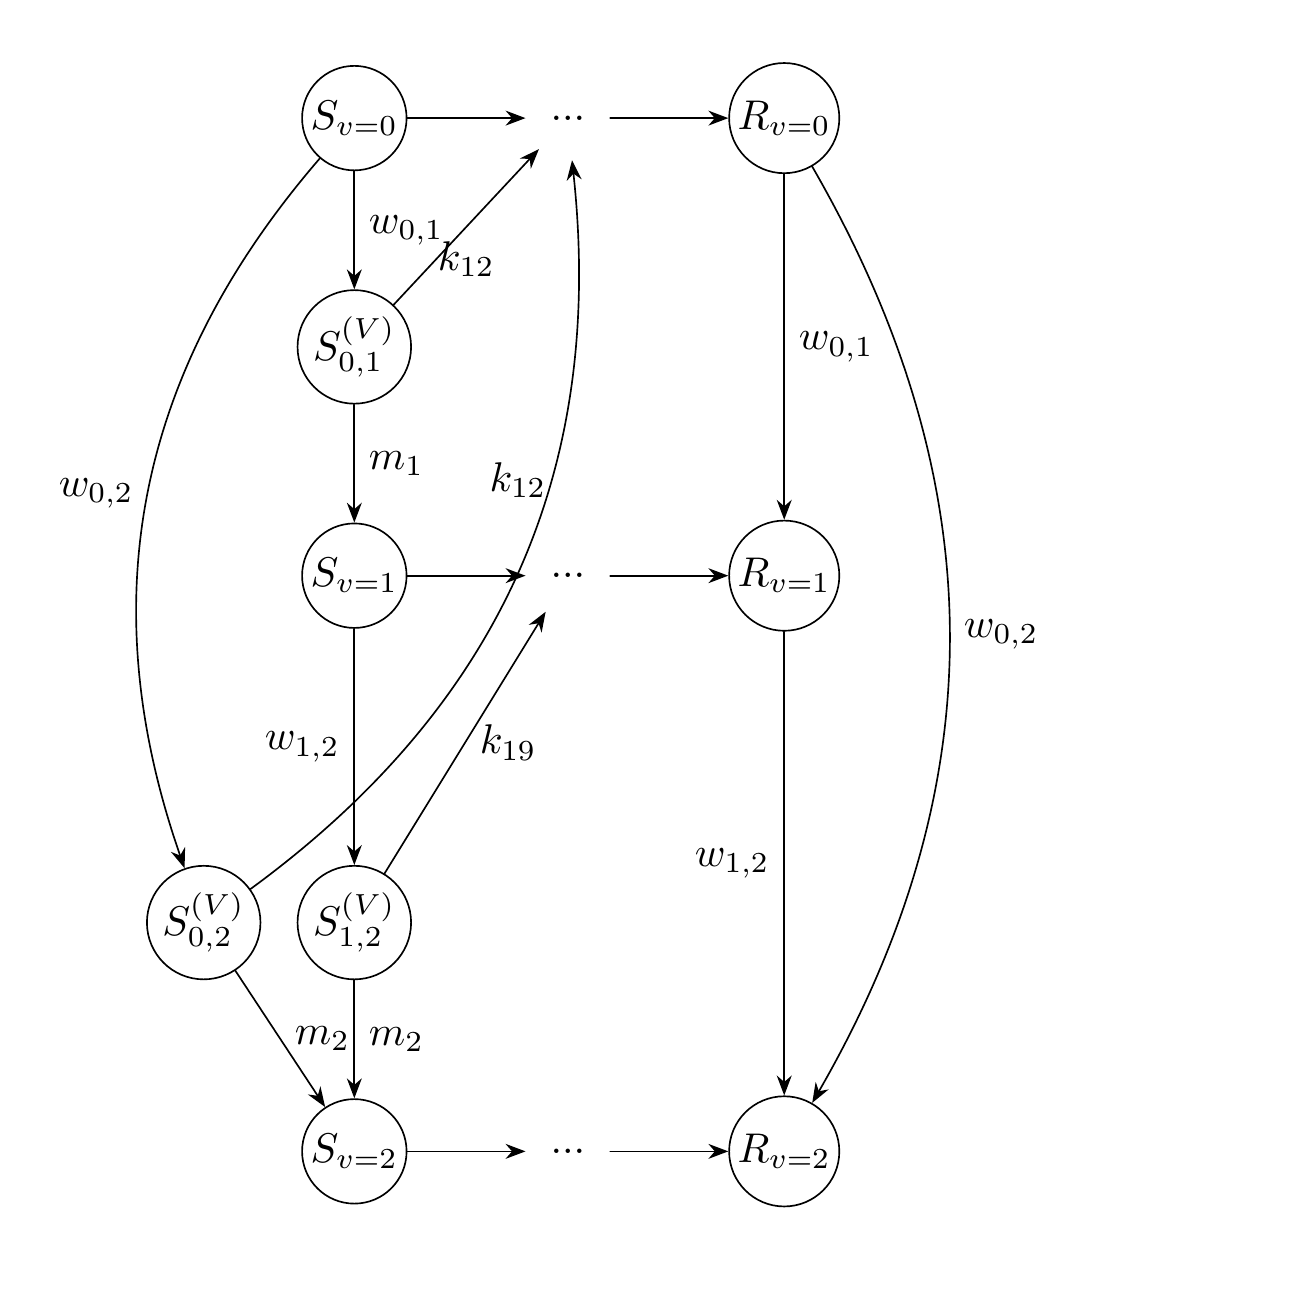
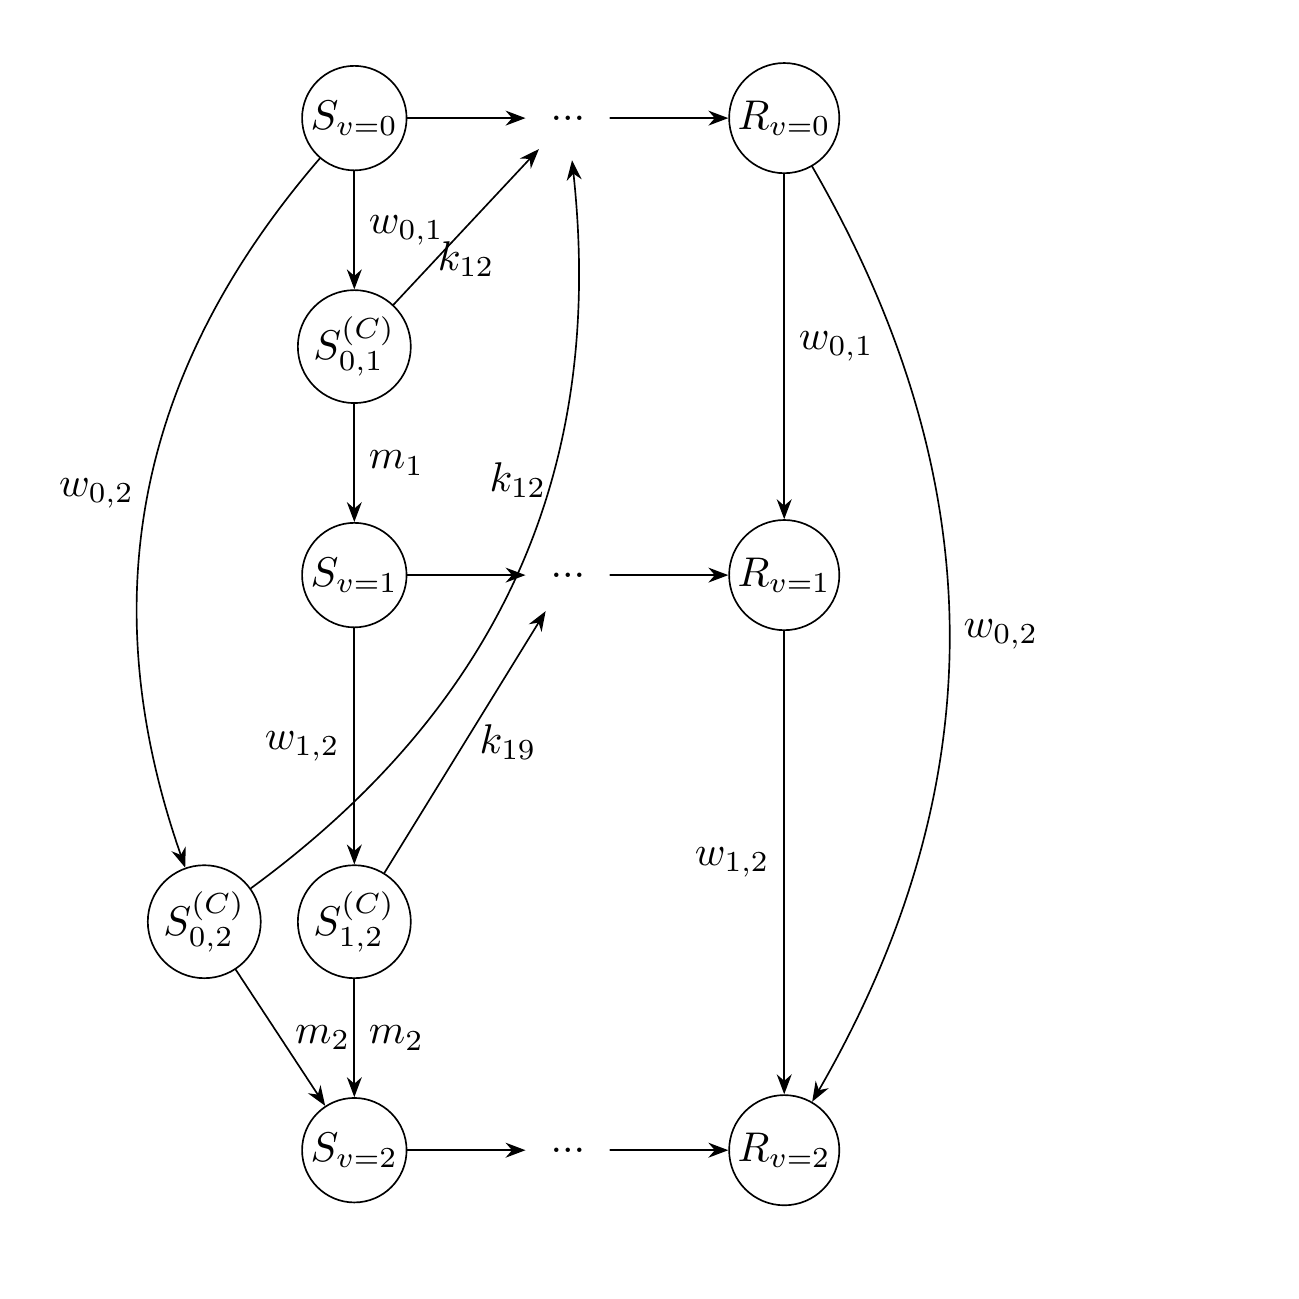
wip

diff --git a/README.md b/README.md
@@ -230,9 +230,9 @@ pertinent to intra- rather than international modelling.
 ## 3.1 Ordinary differential equations
 
 $$\begin{align}
-\frac{dS_{i,v}}{dt} & = \sum_{u=0}^{v-1}m_{v,i}S_{i,u,v}^{(V)} - \left( k_{1,v}(t) + \sum_{u=v+1}^{2}w_{v,u,i}(t) \right)S_{i,v} \\
-\frac{dS_{i,u,v}^{(V)}}{dt} & = w_{u,v,i}(t)S_{i,u} -\left( k_{1,v}(t) + m_{v,i} \right)S_{i,u,v}^{(V)}  \\
-\frac{dE_{i,v}}{dt} & = k_{1,v}(t)\left(S_{i,v}+\sum_{u=v+1}^2S_{i,v,u}^{(V)}\right) - (k_2+k_4)E_{i,v} \\
+\frac{dS_{i,v}}{dt} & = \sum_{u=0}^{v-1}m_{v,i}S_{i,u,v}^{(C)} - \left( k_{1,v}(t) + \sum_{u=v+1}^{2}w_{v,u,i}(t) \right)S_{i,v} \\
+\frac{dS_{i,u,v}^{(C)}}{dt} & = w_{u,v,i}(t)S_{i,u} -\left( k_{1,v}(t) + m_{v,i} \right)S_{i,u,v}^{(C)}  \\
+\frac{dE_{i,v}}{dt} & = k_{1,v}(t)\left(S_{i,v}+\sum_{u=v+1}^2S_{i,v,u}^{(C)}\right) - (k_2+k_4)E_{i,v} \\
 \frac{dI_{i,v}^{(A)}}{dt} & = k_2E_{i,v} - k_3I_{i,v}^{(A)} \\
 \frac{dI_{i,v}^{(S)}}{dt} & = k_4E_{i,v} - (k_{5,i,v}+k_{6,i,v})I_{i,v}^{(S)} \\
 \frac{dR_{i,v}}{dt} & = k_3I_{i,v}^{(A)} + k_{5,i,v}I_{i,v}^{(S)} + k_{7,i}(t) H_{i,v} - \sum_{u=v+1}^{2}w_{v,u,i}(t)R_{i,v} + \sum_{u=0}^{v-1}w_{u,v,i}(t)R_{i,v-1}\\
@@ -374,13 +374,13 @@ vaccination level.
 
 <div class="figure">
 
-<img src="README_files/figure-gfm/vaccinetransitions-1.png" alt="Vaccine state transitions. $S$: susceptible. $S^{(V)}$: vaccinated but not yet protected. $R$: recovered. $v$: vaccination status."  />
+<img src="README_files/figure-gfm/vaccinetransitions-1.png" alt="Vaccine state transitions. $S$: susceptible. $S^{(C)}$: recently vaccinated but has not yet seroconverted (i.e. is not protected by most recent vaccination). $R$: recovered. $v$: vaccination status."  />
 
 <p class="caption">
 
-Figure 3.2: Vaccine state transitions. $S$: susceptible. $S^{(V)}$:
-vaccinated but not yet protected. $R$: recovered. $v$: vaccination
-status.
+Figure 3.2: Vaccine state transitions. $S$: susceptible. $S^{(C)}$:
+recently vaccinated but has not yet seroconverted (i.e. is not protected
+by most recent vaccination). $R$: recovered. $v$: vaccination status.
 
 </p>
 
